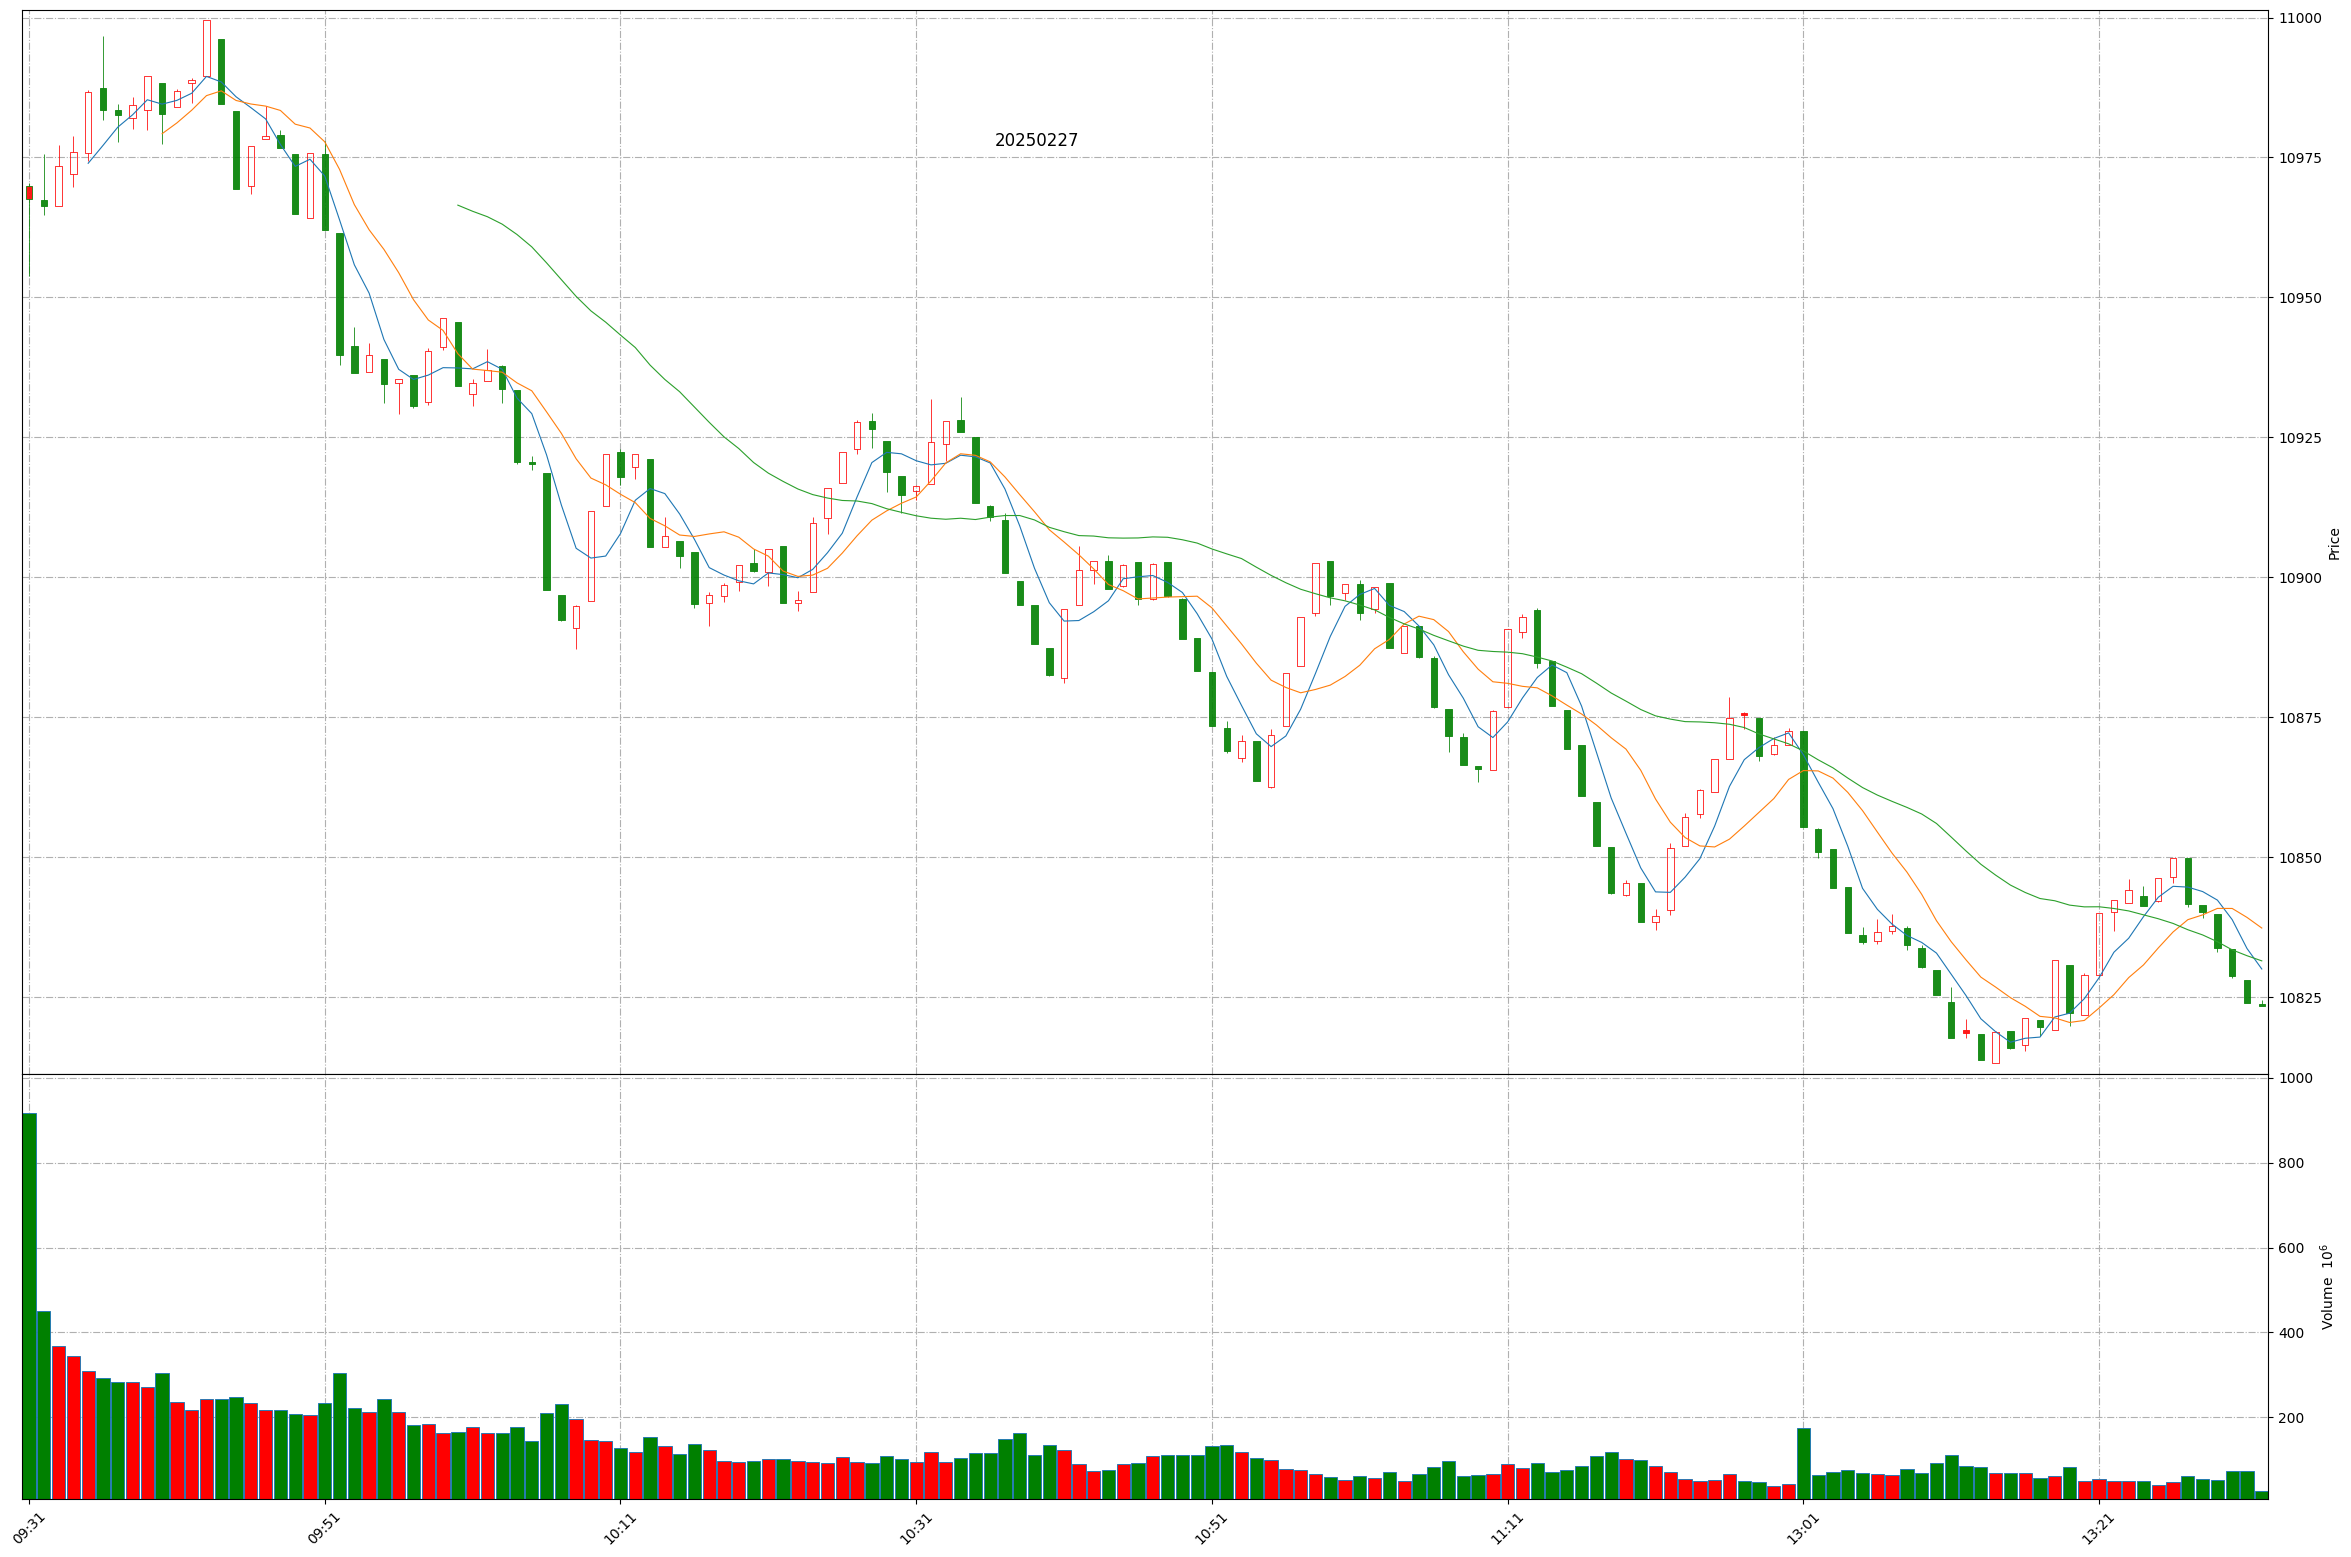
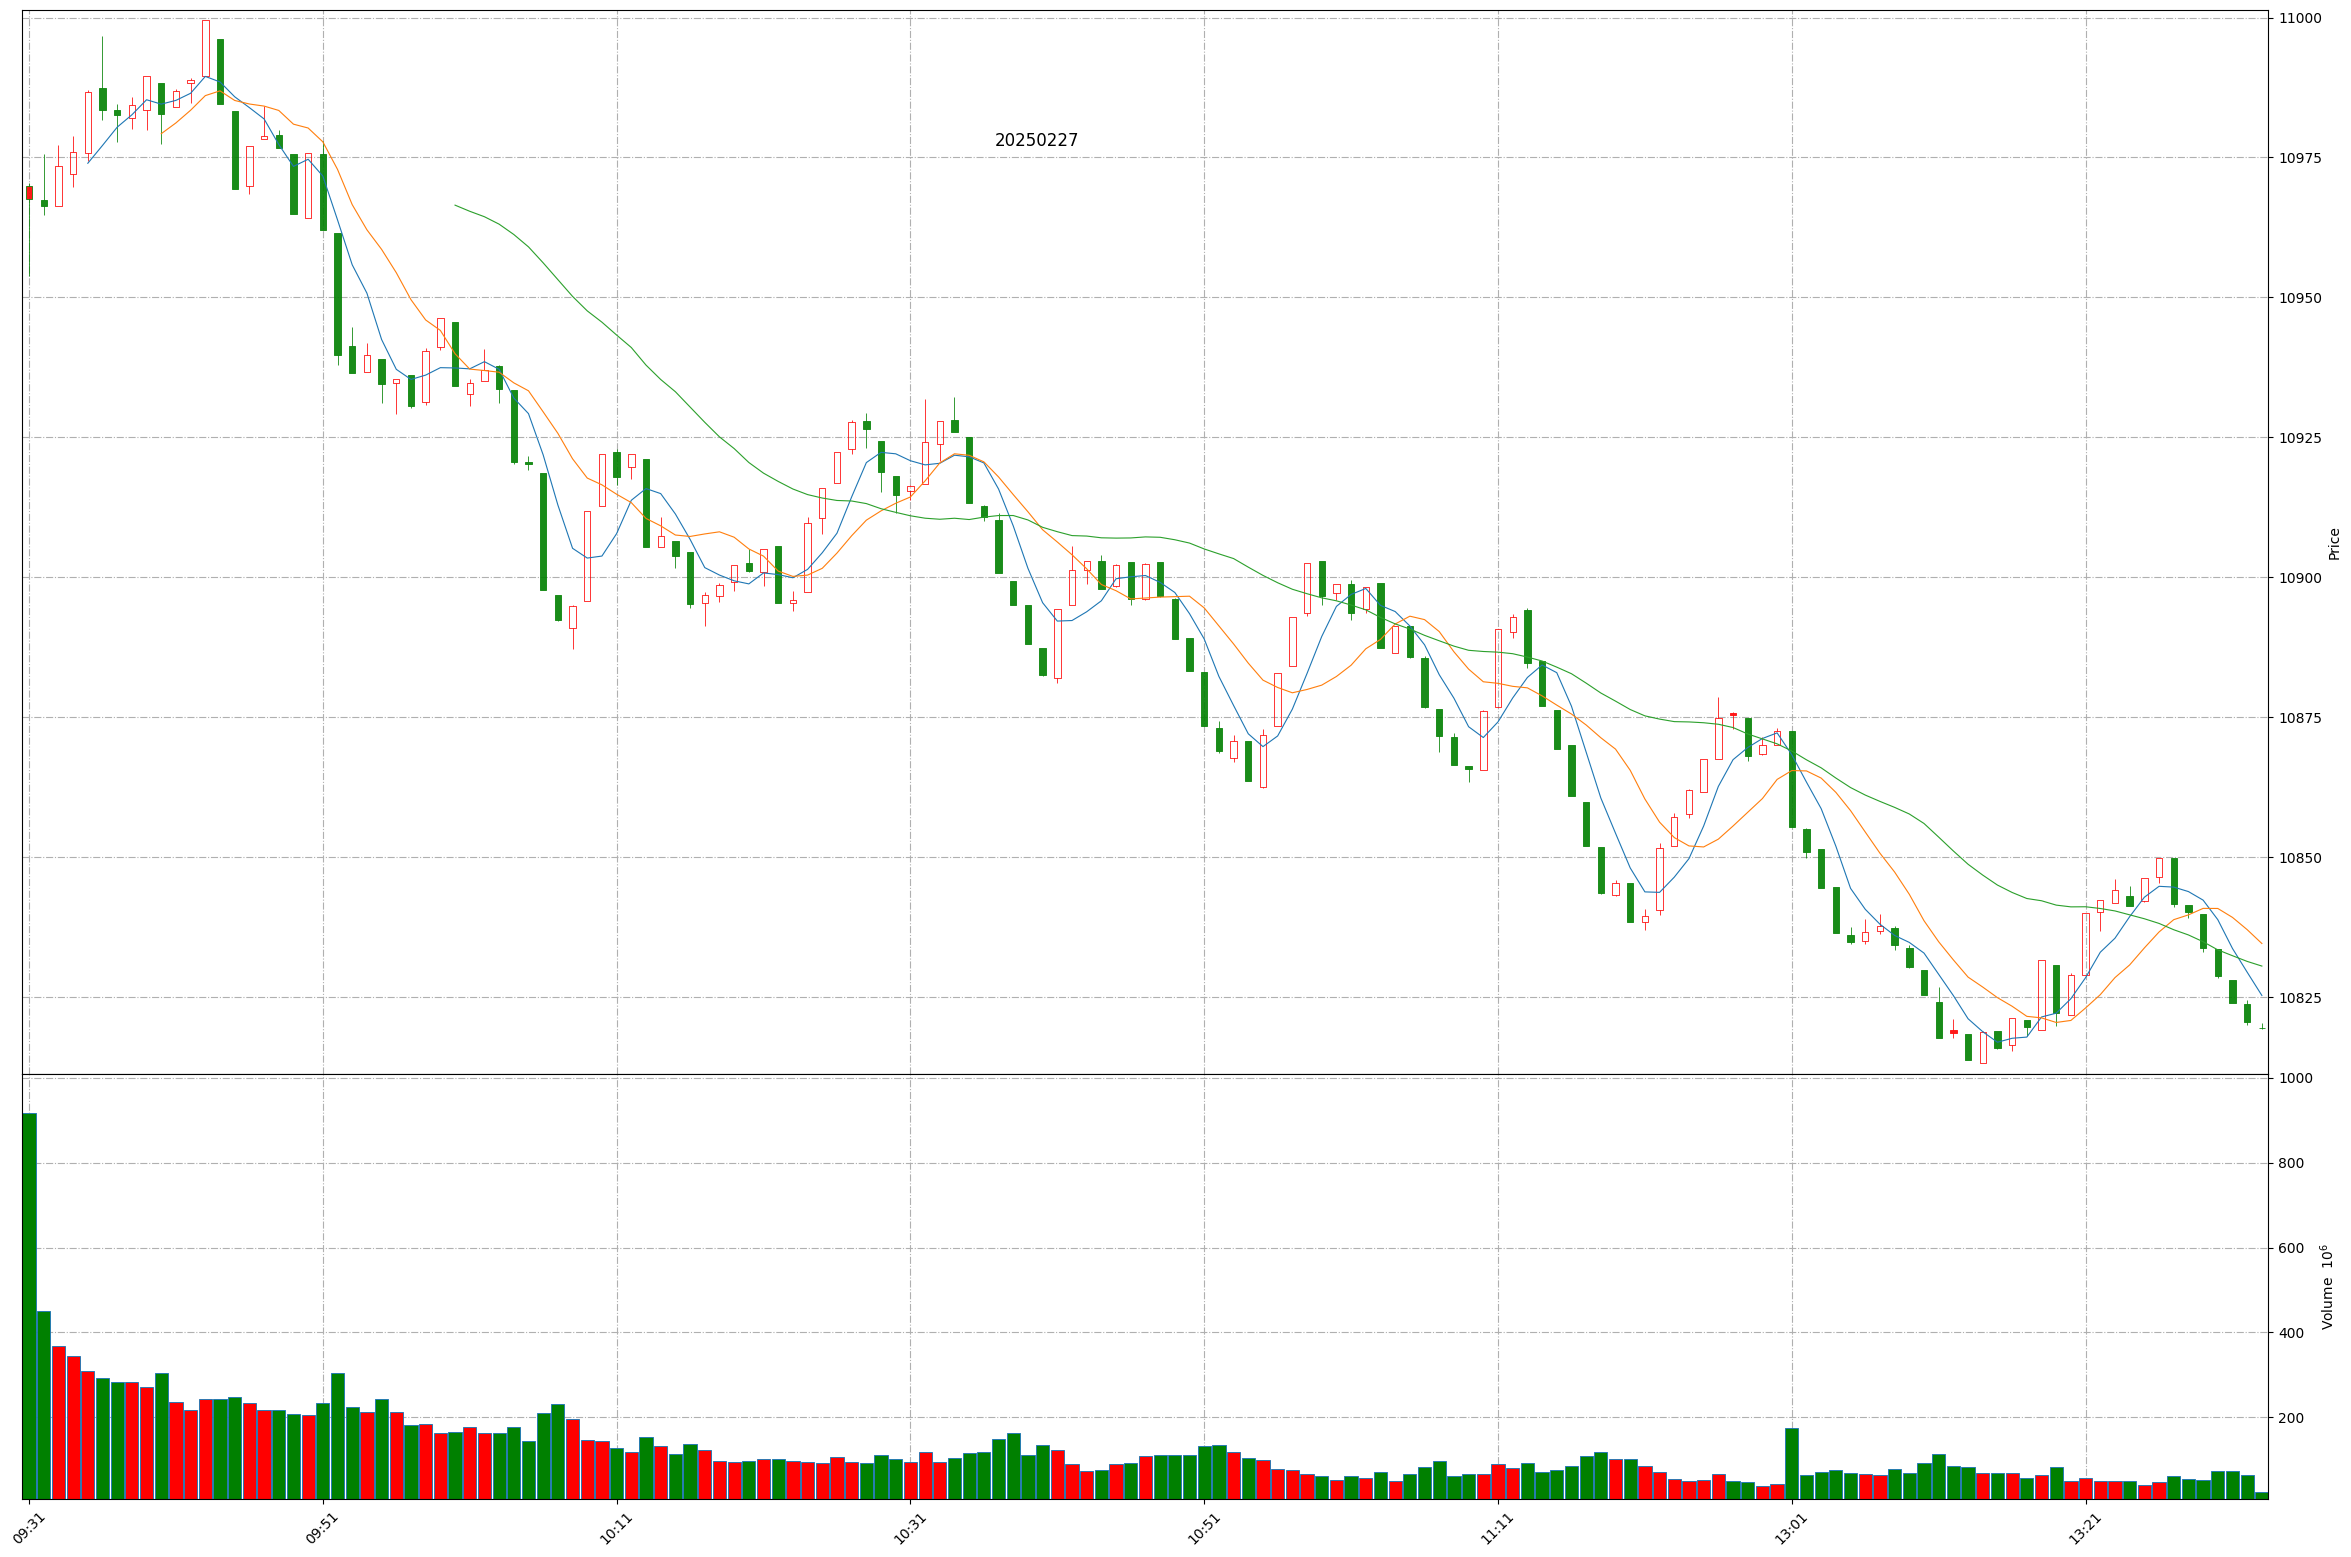
Github action update at 2025-02-27 13:32:29.

diff --git a/README.md b/README.md
@@ -1,11 +1,11 @@
 
 # Daily-A-share-market-quotes 每日 A 股指数（5min 更新）- 20250227
 
-### 上证指数 20250227 13:31
+### 上证指数 20250227 13:32
 ![](./fig/2025/2/20250227-sh000001.png)
 
-### 深证成指 20250227 13:31
+### 深证成指 20250227 13:32
 ![](./fig/2025/2/20250227-sz399001.png)
 
-### 北证50 20250227 13:31
+### 北证50 20250227 13:32
 ![](./fig/2025/2/20250227-bj899050.png)
